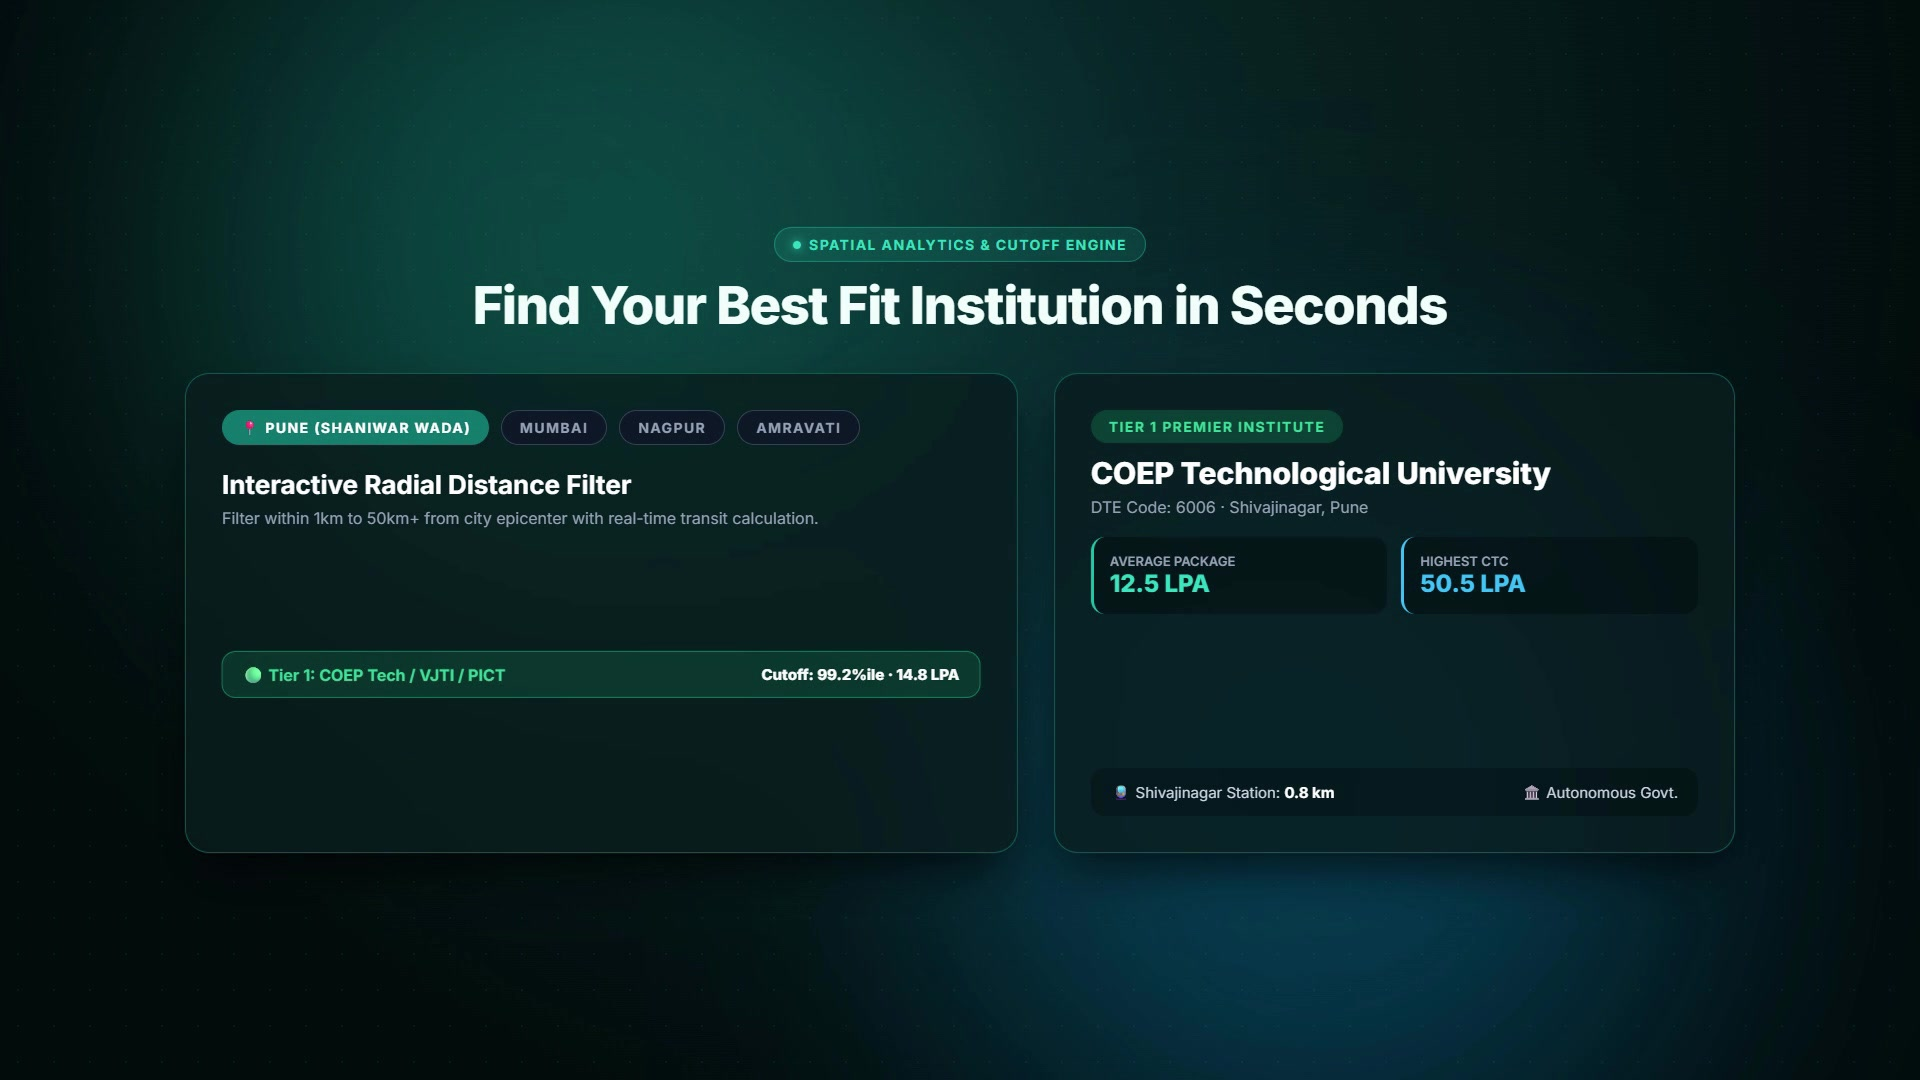
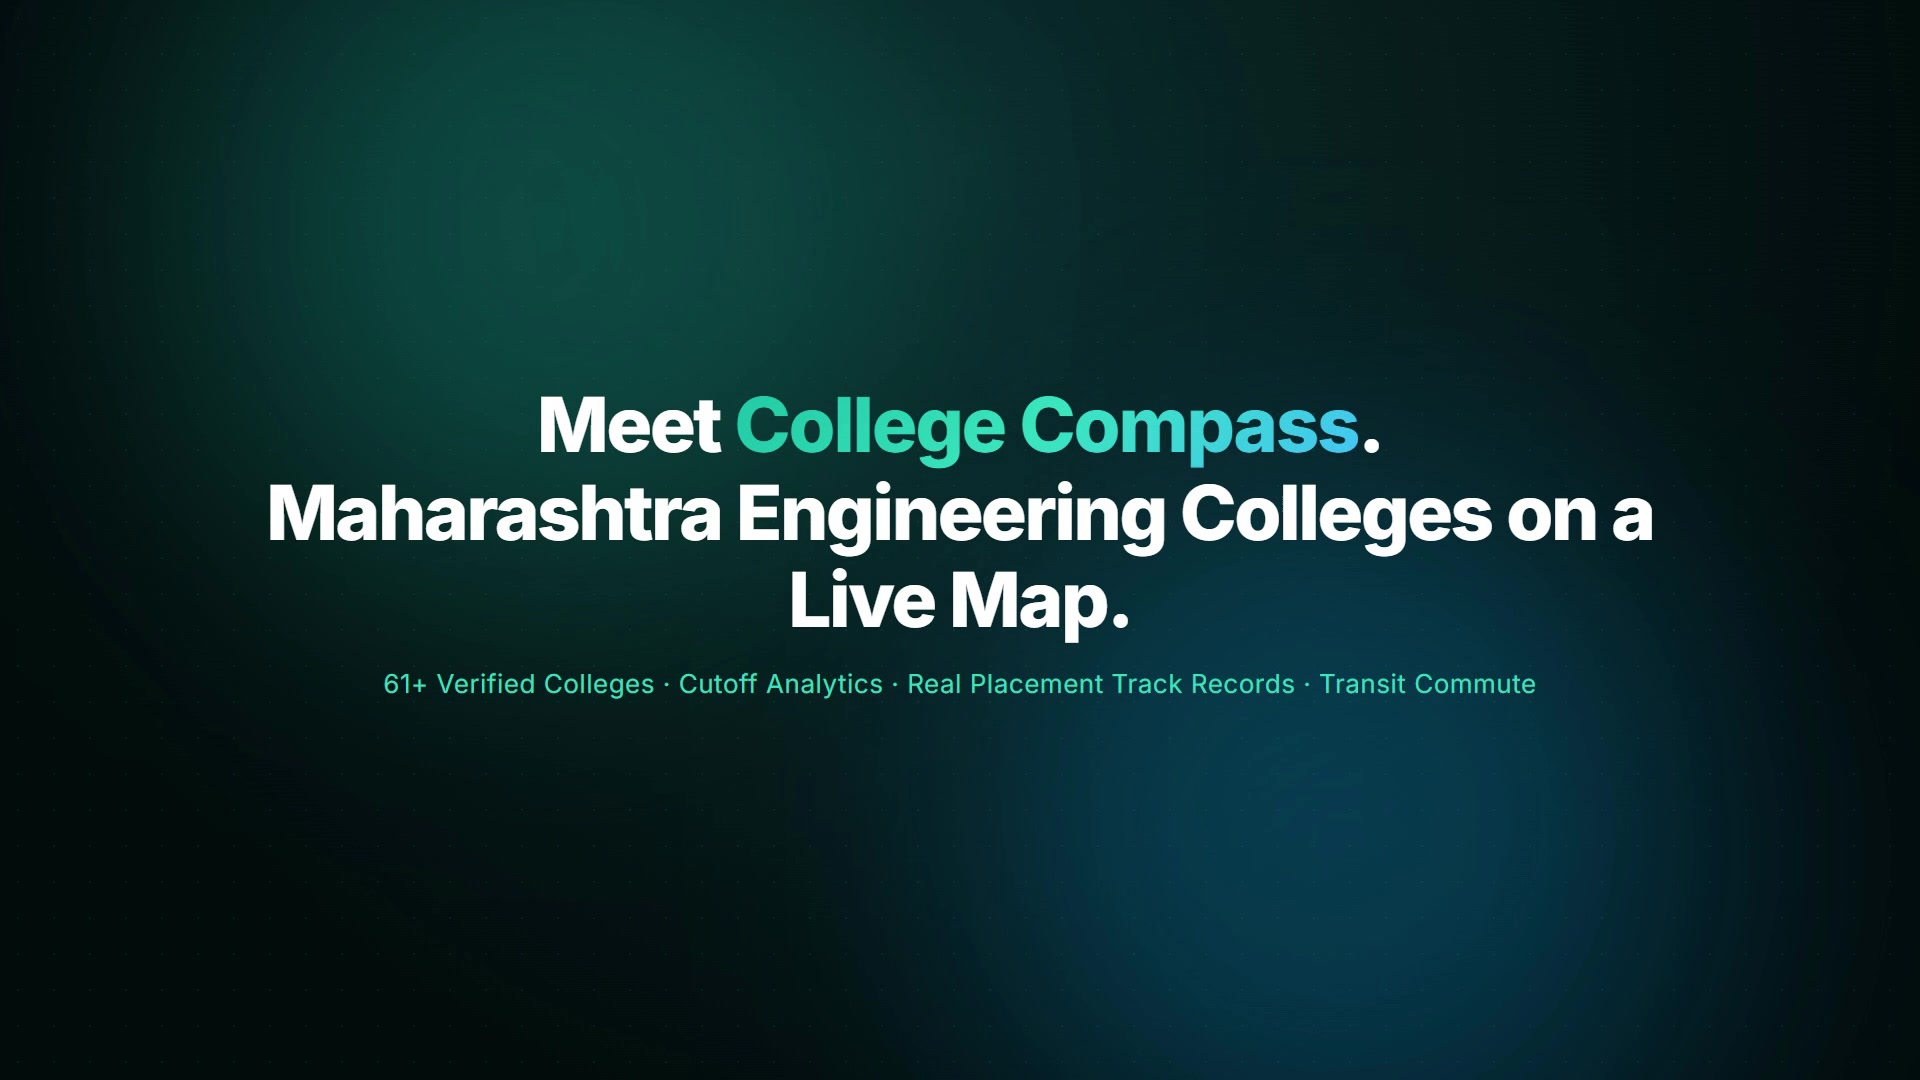
fix: rename Campus Compass to College Compass across README and demo assets

Changed region(s): [[0.0938, 0.3361, 0.875, 0.825], [0.25, 0.1833, 0.75, 0.3056]]

diff --git a/README.md b/README.md
@@ -1,8 +1,8 @@
 <div align="center">
 
-  <img src="public/logo.png" alt="Campus Compass Logo" width="110" style="border-radius: 22px; box-shadow: 0 4px 25px rgba(13, 148, 136, 0.25);" />
+  <img src="public/logo.png" alt="College Compass Logo" width="110" style="border-radius: 22px; box-shadow: 0 4px 25px rgba(13, 148, 136, 0.25);" />
 
-  # 🧭 Campus Compass
+  # 🧭 College Compass
   ### *Interactive Maharashtra Engineering College Discovery & Cutoff Analytics*
 
   [![Live Demo](https://img.shields.io/badge/Live_Demo-collegecompass.ayuslabs.com-0d9488?style=for-the-badge&logo=vercel&logoColor=white)](https://collegecompass.ayuslabs.com)
@@ -21,7 +21,7 @@
 </div>
 
 <div align="center">
-  <img src="public/assets/demo.gif" alt="Campus Compass Interactive Walkthrough" width="100%" style="border-radius: 12px; box-shadow: 0 10px 35px rgba(0, 0, 0, 0.4); border: 1px solid rgba(255, 255, 255, 0.1);" />
+  <img src="public/assets/demo.gif" alt="College Compass Interactive Walkthrough" width="100%" style="border-radius: 12px; box-shadow: 0 10px 35px rgba(0, 0, 0, 0.4); border: 1px solid rgba(255, 255, 255, 0.1);" />
 </div>
 
 ---
@@ -29,7 +29,7 @@
 ## 📸 Screenshots & UI Preview
 
 ### 🗺 Dashboard Overview (Live Map & Multi-Criteria Filtering)
-![Campus Compass Overview](public/screenshots/overview.png)
+![College Compass Overview](public/screenshots/overview.png)
 
 ### 💳 Detailed College Profile Drawer (CAP Cutoffs, Intake & Transit Data)
 ![College Details Drawer](public/screenshots/college-details.png)
@@ -43,7 +43,7 @@
 
 During the MHT-CET CAP counseling rounds, students and parents face a tedious challenge: cross-referencing massive 100+ page PDF cutoff lists with real-world campus locations, travel times, fee structures, and placement track records.
 
-**Campus Compass** unifies **spatial intelligence** with **academic & career decision metrics**:
+**College Compass** unifies **spatial intelligence** with **academic & career decision metrics**:
 - 📍 **Geographic Context**: View exact campus coordinates on interactive maps with real-time radial distance rings from central city landmarks.
 - 🏆 **Tier Classification (Tier 1, 2, 3)**: Instantly identify institution caliber via tiered map pins and badging (Tier 1 Emerald, Tier 2 Blue, Tier 3 Orange).
 - 💼 **Placement Track Records**: Inspect average salary packages (LPA), highest packages, and verified top recruiting partners for every campus.
